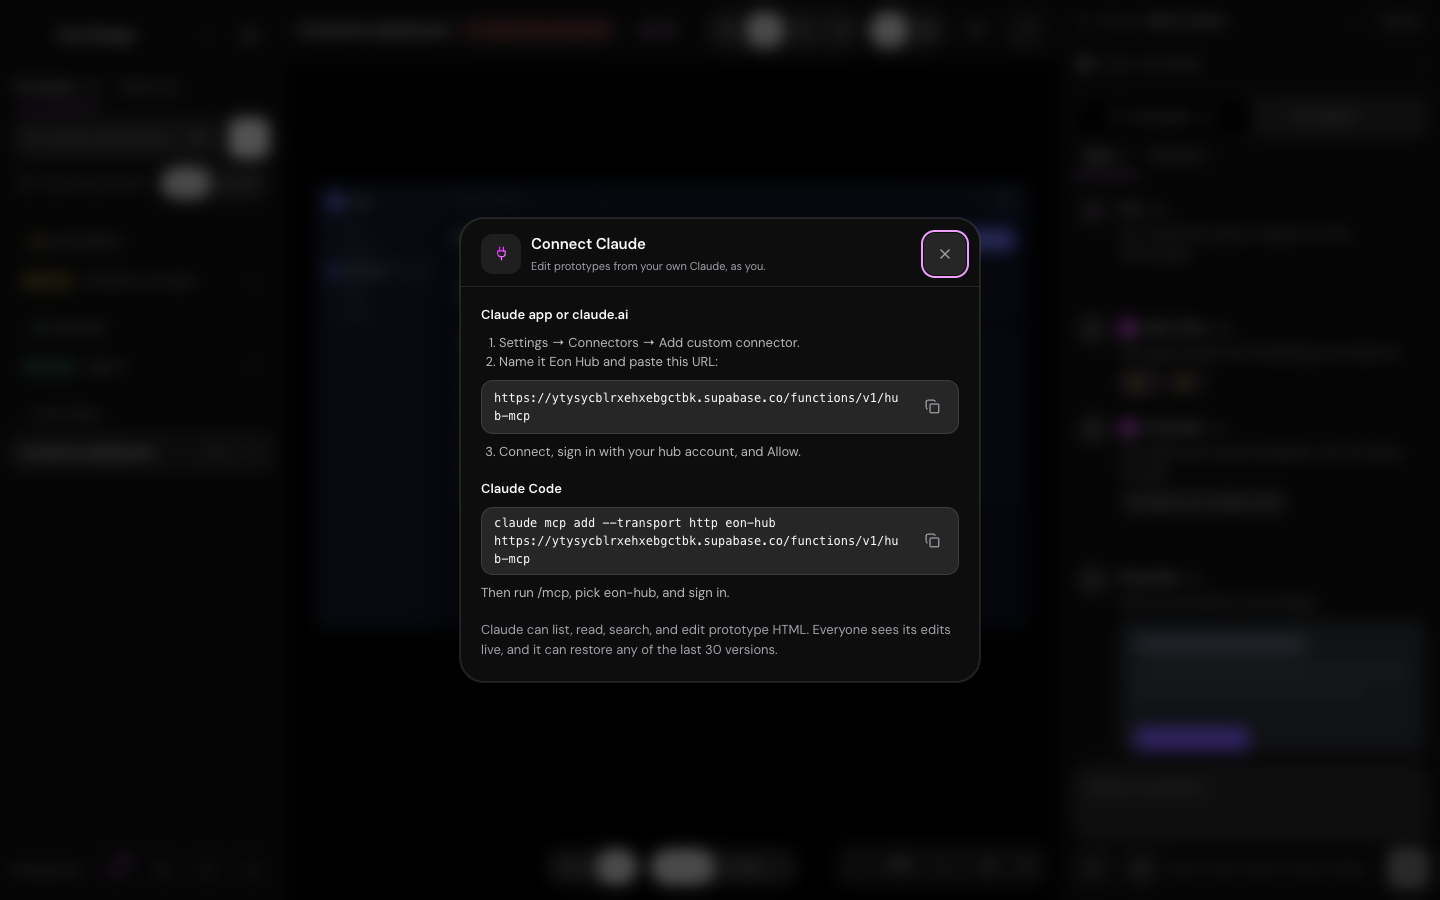
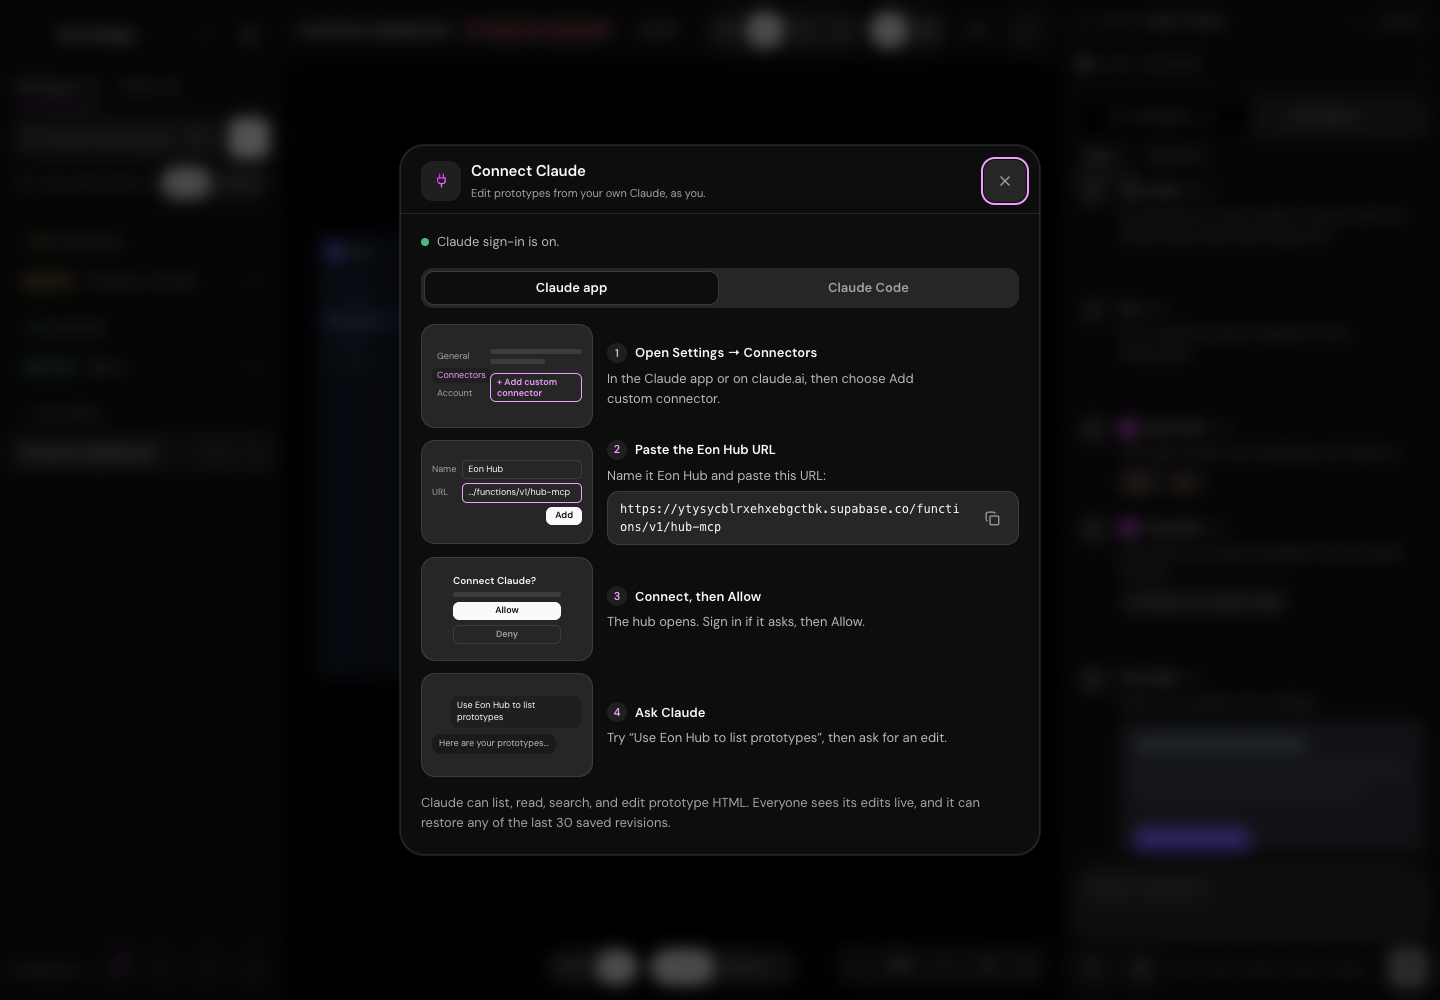
Connect Claude: illustrated step-by-step guide with live sign-in status

diff --git a/src/components/ConnectClaude.jsx b/src/components/ConnectClaude.jsx
@@ -2,9 +2,12 @@ import { useEffect, useRef, useState } from "react";
 import { createPortal } from "react-dom";
 import { Check, Copy, Plug, X } from "lucide-react";
 import { copyText } from "@/lib/uiState";
+import { CLAUDE_CODE_COMMAND, CONNECTOR_URL, fetchSignInStatus } from "@/lib/claudeConnect";
 
-const CONNECTOR_URL = `${import.meta.env.VITE_SUPABASE_URL}/functions/v1/hub-mcp`;
-const CLAUDE_CODE_COMMAND = `claude mcp add --transport http eon-hub ${CONNECTOR_URL}`;
+const PLATFORMS = [
+  { key: "app", label: "Claude app" },
+  { key: "code", label: "Claude Code" },
+];
 
 function CopyField({ c, label, value }) {
   const [copied, setCopied] = useState(false);
@@ -30,8 +33,135 @@ function CopyField({ c, label, value }) {
   );
 }
 
-function ConnectClaudeDialog({ c, onClose }) {
+/* ---- Step illustrations: small drawn stand-ins for each screen, not
+   screenshots, so they stay true when Claude's own UI shifts. ---- */
+function SettingsArt({ c }) {
+  return (
+    <div className="eon-art-window">
+      <div className="eon-art-side">
+        {["General", "Connectors", "Account"].map((item) => (
+          <span key={item} style={item === "Connectors" ? { background: c.active, color: c.brand } : { color: c.muted }}>{item}</span>
+        ))}
+      </div>
+      <div className="eon-art-main">
+        <span className="eon-art-line" style={{ background: c.border }} />
+        <span className="eon-art-line is-short" style={{ background: c.border }} />
+        <span className="eon-art-pill" style={{ borderColor: c.brand, color: c.brand }}>+ Add custom connector</span>
+      </div>
+    </div>
+  );
+}
+
+function FormArt({ c }) {
+  return (
+    <div className="eon-art-form">
+      <span style={{ color: c.muted }}>Name</span>
+      <span className="eon-art-input" style={{ borderColor: c.border, color: c.text }}>Eon Hub</span>
+      <span style={{ color: c.muted }}>URL</span>
+      <span className="eon-art-input" style={{ borderColor: c.brand, color: c.text }}>…/functions/v1/hub-mcp</span>
+      <span className="eon-art-button" style={{ background: c.text, color: c.nav }}>Add</span>
+    </div>
+  );
+}
+
+function ConsentArt({ c }) {
+  return (
+    <div className="eon-art-consent">
+      <strong style={{ color: c.text }}>Connect Claude?</strong>
+      <span className="eon-art-line" style={{ background: c.border }} />
+      <span className="eon-art-button is-wide" style={{ background: c.text, color: c.nav }}>Allow</span>
+      <span className="eon-art-button is-wide is-ghost" style={{ borderColor: c.border, color: c.muted }}>Deny</span>
+    </div>
+  );
+}
+
+function ChatArt({ c }) {
+  return (
+    <div className="eon-art-chat">
+      <span className="eon-art-bubble is-me" style={{ background: c.active, color: c.text }}>Use Eon Hub to list prototypes</span>
+      <span className="eon-art-bubble" style={{ background: c.panel, color: c.secondary }}>Here are your prototypes…</span>
+    </div>
+  );
+}
+
+function TerminalArt({ c, lines }) {
+  return (
+    <div className="eon-art-terminal">
+      {lines.map(([text, highlight], index) => (
+        <span key={index} style={{ color: highlight ? c.brand : "#b9b9b9" }}>{text}</span>
+      ))}
+    </div>
+  );
+}
+
+const STEPS = {
+  app: [
+    { title: "Open Settings → Connectors", art: SettingsArt, body: () => <p>In the Claude app or on claude.ai, then choose Add custom connector.</p> },
+    {
+      title: "Paste the Eon Hub URL",
+      art: FormArt,
+      body: (c) => (
+        <>
+          <p>Name it Eon Hub and paste this URL:</p>
+          <CopyField c={c} label="connector URL" value={CONNECTOR_URL} />
+        </>
+      ),
+    },
+    { title: "Connect, then Allow", art: ConsentArt, body: () => <p>The hub opens. Sign in if it asks, then Allow.</p> },
+    { title: "Ask Claude", art: ChatArt, body: () => <p>Try “Use Eon Hub to list prototypes”, then ask for an edit.</p> },
+  ],
+  code: [
+    {
+      title: "Add the server",
+      art: (props) => <TerminalArt {...props} lines={[["$ claude mcp add --transport http", false], ["  eon-hub …/hub-mcp", true], ["Added eon-hub", false]]} />,
+      body: (c) => (
+        <>
+          <p>Run this once in your terminal:</p>
+          <CopyField c={c} label="command" value={CLAUDE_CODE_COMMAND} />
+        </>
+      ),
+    },
+    {
+      title: "Sign in with /mcp",
+      art: (props) => <TerminalArt {...props} lines={[["> /mcp", false], ["  eon-hub · needs sign-in", false], ["  ❯ Authenticate", true]]} />,
+      body: () => <p>Start claude, run /mcp, pick eon-hub, and choose Authenticate.</p>,
+    },
+    { title: "Allow in the browser", art: ConsentArt, body: () => <p>The hub opens. Sign in if it asks, then Allow.</p> },
+    {
+      title: "Ask Claude",
+      art: (props) => <TerminalArt {...props} lines={[["> use eon-hub to list", false], ["  prototypes", false], ["● eon-hub · list_prototypes", true]]} />,
+      body: () => <p>Try “use eon-hub to list prototypes”, then ask for an edit.</p>,
+    },
+  ],
+};
+
+function SignInStatus({ c, status, isAdmin }) {
+  if (status === "ready") {
+    return (
+      <p className="eon-connect-status" style={{ color: c.secondary }}>
+        <span className="eon-connect-dot" style={{ background: "#4CB782" }} aria-hidden="true" />
+        Claude sign-in is on.
+      </p>
+    );
+  }
+  if (status !== "off") return null;
+  return (
+    <div className="eon-connect-status is-off" role="status" style={{ background: c.raised, borderColor: c.border, color: c.secondary }}>
+      <span className="eon-connect-dot" style={{ background: "#F2C94C" }} aria-hidden="true" />
+      <p>
+        <strong style={{ color: c.text }}>Claude sign-in isn’t on yet.</strong>{" "}
+        {isAdmin
+          ? "In Supabase, open Authentication → OAuth Server, turn it on, set the authorization path to /oauth/consent/, and allow dynamic client registration."
+          : "Ask a hub admin to turn it on, then come back here."}
+      </p>
+    </div>
+  );
+}
+
+function ConnectClaudeDialog({ c, isAdmin, initialPlatform, onClose }) {
   const dialogRef = useRef(null);
+  const [platform, setPlatform] = useState(initialPlatform);
+  const [status, setStatus] = useState("unknown");
   // Held in a ref so a parent re-render (realtime, presence) can't re-run the
   // mount effect and yank focus back to Close.
   const onCloseRef = useRef(onClose);
@@ -46,6 +176,14 @@ function ConnectClaudeDialog({ c, onClose }) {
       window.removeEventListener("keydown", onKey);
       returnFocusTo?.focus?.();
     };
+  }, []);
+
+  useEffect(() => {
+    let stale = false;
+    const forced = import.meta.env.DEV && new URLSearchParams(window.location.search).get("connect-status");
+    if (forced) setStatus(forced);
+    else fetchSignInStatus().then((value) => { if (!stale) setStatus(value); });
+    return () => { stale = true; };
   }, []);
 
   return (
@@ -66,24 +204,40 @@ function ConnectClaudeDialog({ c, onClose }) {
           </button>
         </div>
         <div className="eon-modal-body eon-connect-body" style={{ color: c.secondary }}>
-          <section>
-            <h3 style={{ color: c.text }}>Claude app or claude.ai</h3>
-            <ol>
-              <li>Settings → Connectors → Add custom connector.</li>
-              <li>Name it Eon Hub and paste this URL:</li>
-            </ol>
-            <CopyField c={c} label="connector URL" value={CONNECTOR_URL} />
-            <ol start={3}>
-              <li>Connect, sign in with your hub account, and Allow.</li>
-            </ol>
-          </section>
-          <section>
-            <h3 style={{ color: c.text }}>Claude Code</h3>
-            <CopyField c={c} label="command" value={CLAUDE_CODE_COMMAND} />
-            <p>Then run /mcp, pick eon-hub, and sign in.</p>
-          </section>
+          <SignInStatus c={c} status={status} isAdmin={isAdmin} />
+          <div className="eon-connect-tabs" role="tablist" aria-label="Where you use Claude" style={{ background: c.raised }}>
+            {PLATFORMS.map((item) => (
+              <button key={item.key} type="button" role="tab" id={`eon-connect-tab-${item.key}`}
+                aria-selected={platform === item.key} aria-controls="eon-connect-steps"
+                className="eon-buttonish" onClick={() => setPlatform(item.key)}
+                style={platform === item.key
+                  ? { background: c.nav, color: c.text, boxShadow: "var(--shadow-surface)" }
+                  : { color: c.muted }}>
+                {item.label}
+              </button>
+            ))}
+          </div>
+          <ol id="eon-connect-steps" className="eon-connect-steps" role="tabpanel" aria-labelledby={`eon-connect-tab-${platform}`}>
+            {STEPS[platform].map((step, index) => {
+              const Art = step.art;
+              return (
+                <li key={step.title} className="eon-connect-step">
+                  <div className="eon-connect-art" style={{ background: c.raised, borderColor: c.border }} aria-hidden="true">
+                    <Art c={c} />
+                  </div>
+                  <div className="eon-connect-copy">
+                    <strong style={{ color: c.text }}>
+                      <span className="eon-connect-num" style={{ background: c.active, color: c.brand }}>{index + 1}</span>
+                      {step.title}
+                    </strong>
+                    {step.body(c)}
+                  </div>
+                </li>
+              );
+            })}
+          </ol>
           <p style={{ color: c.muted }}>
-            Claude can list, read, search, and edit prototype HTML. Everyone sees its edits live, and it can restore any of the last 30 versions.
+            Claude can list, read, search, and edit prototype HTML. Everyone sees its edits live, and it can restore any of the last 30 saved revisions.
           </p>
         </div>
       </div>
@@ -91,9 +245,10 @@ function ConnectClaudeDialog({ c, onClose }) {
   );
 }
 
-export function ConnectClaudeButton({ c }) {
-  // Dev preview: ?connect-claude opens the dialog, for changelog screenshots.
-  const [open, setOpen] = useState(() => import.meta.env.DEV && new URLSearchParams(window.location.search).has("connect-claude"));
+export function ConnectClaudeButton({ c, isAdmin = false }) {
+  // Dev preview: ?connect-claude[=code] opens the dialog, for screenshots.
+  const previewParam = import.meta.env.DEV ? new URLSearchParams(window.location.search).get("connect-claude") : null;
+  const [open, setOpen] = useState(previewParam !== null);
   return (
     <>
       <button className="eon-buttonish eon-icon-button" type="button" onClick={() => setOpen(true)}
@@ -103,7 +258,11 @@ export function ConnectClaudeButton({ c }) {
       </button>
       {/* Portaled: the footer can sit inside the phone nav drawer, whose
           transform would otherwise trap the fixed overlay at drawer width. */}
-      {open && createPortal(<ConnectClaudeDialog c={c} onClose={() => setOpen(false)} />, document.body)}
+      {open && createPortal(
+        <ConnectClaudeDialog c={c} isAdmin={isAdmin} initialPlatform={previewParam === "code" ? "code" : "app"}
+          onClose={() => setOpen(false)} />,
+        document.body,
+      )}
     </>
   );
 }

diff --git a/src/index.css b/src/index.css
@@ -1213,14 +1213,47 @@ button.eon-save-state { cursor: pointer; }
 /* New-prototype dialog */
 .eon-modal-overlay { position: fixed; inset: 0; z-index: 80; display: grid; place-items: center; padding: 20px; background: rgba(0, 0, 0, .62); backdrop-filter: blur(8px); }
 .eon-modal { display: flex; width: min(600px, 100%); max-height: 100%; flex-direction: column; border: 1px solid; border-radius: 24px; box-shadow: var(--shadow-surface), 0 24px 80px rgba(0, 0, 0, .32); transition: transform 180ms var(--ease-out), opacity 140ms var(--ease-out); }
-.eon-connect-dialog { width: min(520px, 100%); }
-.eon-modal-body.eon-connect-body { display: grid; gap: 18px; padding: 18px 20px 22px; overflow: auto; font-size: 13px; line-height: 1.5; }
-.eon-connect-body section { display: grid; gap: 8px; }
-.eon-connect-body h3 { margin: 0; font-size: 13px; font-weight: 600; }
-.eon-connect-body ol { margin: 0; padding-left: 18px; list-style: decimal; }
+.eon-connect-dialog { width: min(640px, 100%); }
+.eon-modal-body.eon-connect-body { display: grid; gap: 16px; padding: 18px 20px 22px; overflow: auto; font-size: 13px; line-height: 1.5; }
 .eon-connect-body p { margin: 0; }
 .eon-connect-field { display: flex; align-items: center; gap: 8px; min-width: 0; padding: 6px 6px 6px 12px; border: 1px solid; border-radius: 12px; }
 .eon-connect-field code { flex: 1; min-width: 0; overflow-wrap: anywhere; font-size: 12px; }
+.eon-connect-status { display: flex; align-items: center; gap: 8px; }
+.eon-connect-status.is-off { align-items: flex-start; padding: 10px 12px; border: 1px solid; border-radius: 12px; }
+.eon-connect-status.is-off .eon-connect-dot { margin-top: 6px; }
+.eon-connect-dot { flex: none; width: 8px; height: 8px; border-radius: 50%; }
+.eon-connect-tabs { display: grid; grid-template-columns: 1fr 1fr; gap: 4px; padding: 4px; border-radius: 12px; }
+.eon-connect-tabs button { min-height: 32px; border-radius: 9px; font-size: 13px; font-weight: 600; }
+.eon-connect-steps { display: grid; gap: 12px; margin: 0; padding: 0; list-style: none; }
+.eon-connect-step { display: grid; grid-template-columns: 172px 1fr; gap: 14px; align-items: center; }
+.eon-connect-art { display: grid; height: 104px; place-items: center; overflow: hidden; padding: 10px; border: 1px solid; border-radius: 14px; font-size: 9px; line-height: 1.3; }
+.eon-connect-copy { display: grid; gap: 6px; min-width: 0; }
+.eon-connect-copy strong { display: flex; align-items: center; gap: 8px; font-size: 13px; }
+.eon-connect-num { display: inline-grid; flex: none; width: 20px; height: 20px; place-items: center; border-radius: 50%; font-size: 11px; font-variant-numeric: tabular-nums; }
+.eon-art-window { display: grid; grid-template-columns: 52px 1fr; gap: 6px; width: 100%; }
+.eon-art-side { display: grid; gap: 3px; }
+.eon-art-side span { padding: 2px 5px; border-radius: 5px; }
+.eon-art-main { display: grid; gap: 5px; align-content: start; }
+.eon-art-line { display: block; height: 5px; border-radius: 3px; }
+.eon-art-line.is-short { width: 60%; }
+.eon-art-pill { justify-self: start; margin-top: 4px; padding: 3px 6px; border: 1px solid; border-radius: 6px; font-weight: 600; line-height: 1.2; }
+.eon-art-form { display: grid; grid-template-columns: auto 1fr; gap: 4px 6px; align-items: center; width: 100%; }
+.eon-art-input { overflow: hidden; padding: 3px 5px; border: 1px solid; border-radius: 5px; white-space: nowrap; text-overflow: ellipsis; }
+.eon-art-button { justify-self: end; padding: 3px 9px; border-radius: 6px; font-weight: 600; }
+.eon-art-form .eon-art-button { grid-column: 2; }
+.eon-art-consent { display: grid; gap: 5px; width: 72%; }
+.eon-art-consent strong { font-size: 10px; }
+.eon-art-button.is-wide { justify-self: stretch; text-align: center; }
+.eon-art-button.is-ghost { border: 1px solid; }
+.eon-art-chat { display: grid; gap: 6px; width: 100%; }
+.eon-art-bubble { justify-self: start; max-width: 88%; padding: 4px 7px; border-radius: 9px; }
+.eon-art-bubble.is-me { justify-self: end; }
+.eon-art-terminal { display: grid; gap: 3px; width: calc(100% + 20px); height: calc(100% + 20px); align-content: center; margin: -10px; padding: 10px 12px; background: #0b0b0c; font-family: ui-monospace, SFMono-Regular, Menlo, monospace; white-space: nowrap; }
+.eon-art-terminal span { overflow: hidden; white-space: pre; text-overflow: ellipsis; }
+@media (max-width: 560px) {
+  .eon-connect-step { grid-template-columns: 1fr; gap: 8px; }
+  .eon-connect-art { height: 96px; }
+}
 @starting-style { .eon-modal { opacity: 0; transform: scale(.97) translateY(6px); } }
 .eon-modal-head { display: flex; align-items: center; gap: 10px; padding: 14px 14px 12px 20px; border-bottom: 1px solid; }
 .eon-modal-head strong { flex: 1; font-size: 15px; letter-spacing: -.01em; }

diff --git a/src/lib/changelog.js b/src/lib/changelog.js
@@ -22,12 +22,13 @@ export const CHANGELOG = [
     date: "2026-09-25",
     title: "Connect Claude",
     image: "changelog/2026-09-25-connect-claude.png",
-    imageAlt: "The Connect Claude dialog with the connector URL and the Claude Code command.",
+    imageAlt: "The Connect Claude guide: four illustrated steps from Settings to your first request.",
     groups: [
       {
         label: "New",
         items: [
           "Connect Claude: use your own Claude app, claude.ai, or Claude Code to read and edit prototypes as you. Open it from the plug in the sidebar footer.",
+          "Connect Claude walks you through it step by step, for the Claude app or Claude Code, and says whether sign-in is on yet.",
           "Two people's Claudes can edit one prototype at once. Edits to different parts both land, and everyone sees them live.",
           "History says when a change came through Claude.",
         ],
@@ -41,7 +42,7 @@ export const CHANGELOG = [
       {
         label: "Under the hood",
         items: [
-          "Every prototype keeps its last 30 versions, and Claude can restore any of them.",
+          "Every prototype keeps its last 30 saved revisions, and Claude can restore any of them.",
         ],
       },
     ],

diff --git a/src/lib/claudeConnect.js b/src/lib/claudeConnect.js
@@ -1,0 +1,21 @@
+/* Connect Claude: the hub's MCP connector and whether Claude can sign in yet.
+   Sign-in needs Supabase Auth's OAuth server switched on (an admin setting). */
+export const CONNECTOR_URL = `${import.meta.env?.VITE_SUPABASE_URL}/functions/v1/hub-mcp`;
+export const CLAUDE_CODE_COMMAND = `claude mcp add --transport http eon-hub ${CONNECTOR_URL}`;
+
+// "ready" | "off" | "unknown" from the OAuth discovery response.
+export function signInStatus(status, body) {
+  if (status === 200) return "ready";
+  if (status === 404 && body?.error_code === "feature_disabled") return "off";
+  return "unknown";
+}
+
+export async function fetchSignInStatus() {
+  try {
+    const response = await fetch(`${import.meta.env.VITE_SUPABASE_URL}/.well-known/oauth-authorization-server/auth/v1`);
+    const body = await response.json().catch(() => null);
+    return signInStatus(response.status, body);
+  } catch {
+    return "unknown";
+  }
+}

diff --git a/src/lib/claudeConnect.test.js b/src/lib/claudeConnect.test.js
@@ -1,0 +1,15 @@
+import { assertEquals } from "jsr:@std/assert@1";
+import { signInStatus } from "./claudeConnect.js";
+
+Deno.test("discovery answers: Claude sign-in is ready", () => {
+  assertEquals(signInStatus(200, { issuer: "https://x.supabase.co/auth/v1" }), "ready");
+});
+
+Deno.test("Supabase says the OAuth server is off", () => {
+  assertEquals(signInStatus(404, { code: 404, error_code: "feature_disabled", msg: "OAuth server is disabled" }), "off");
+});
+
+Deno.test("anything else is unknown, so the guide stays quiet", () => {
+  assertEquals(signInStatus(500, null), "unknown");
+  assertEquals(signInStatus(404, { error_code: "not_found" }), "unknown");
+});

diff --git a/src/components/HubSidebarFooter.jsx b/src/components/HubSidebarFooter.jsx
@@ -14,7 +14,7 @@ export default function HubSidebarFooter({
     <div className="eon-sidebar-foot" style={{ borderColor: c.border }}>
       <span title={userEmail || ""} style={{ color: c.muted }}>{userEmail || "Team member"}</span>
       <HubChangelogButton c={c} hasNew={changelog.hasNew} onOpen={changelog.open} />
-      <ConnectClaudeButton c={c} />
+      <ConnectClaudeButton c={c} isAdmin={isAdmin} />
       {isAdmin && (
         <button
           className="eon-buttonish eon-icon-button"
